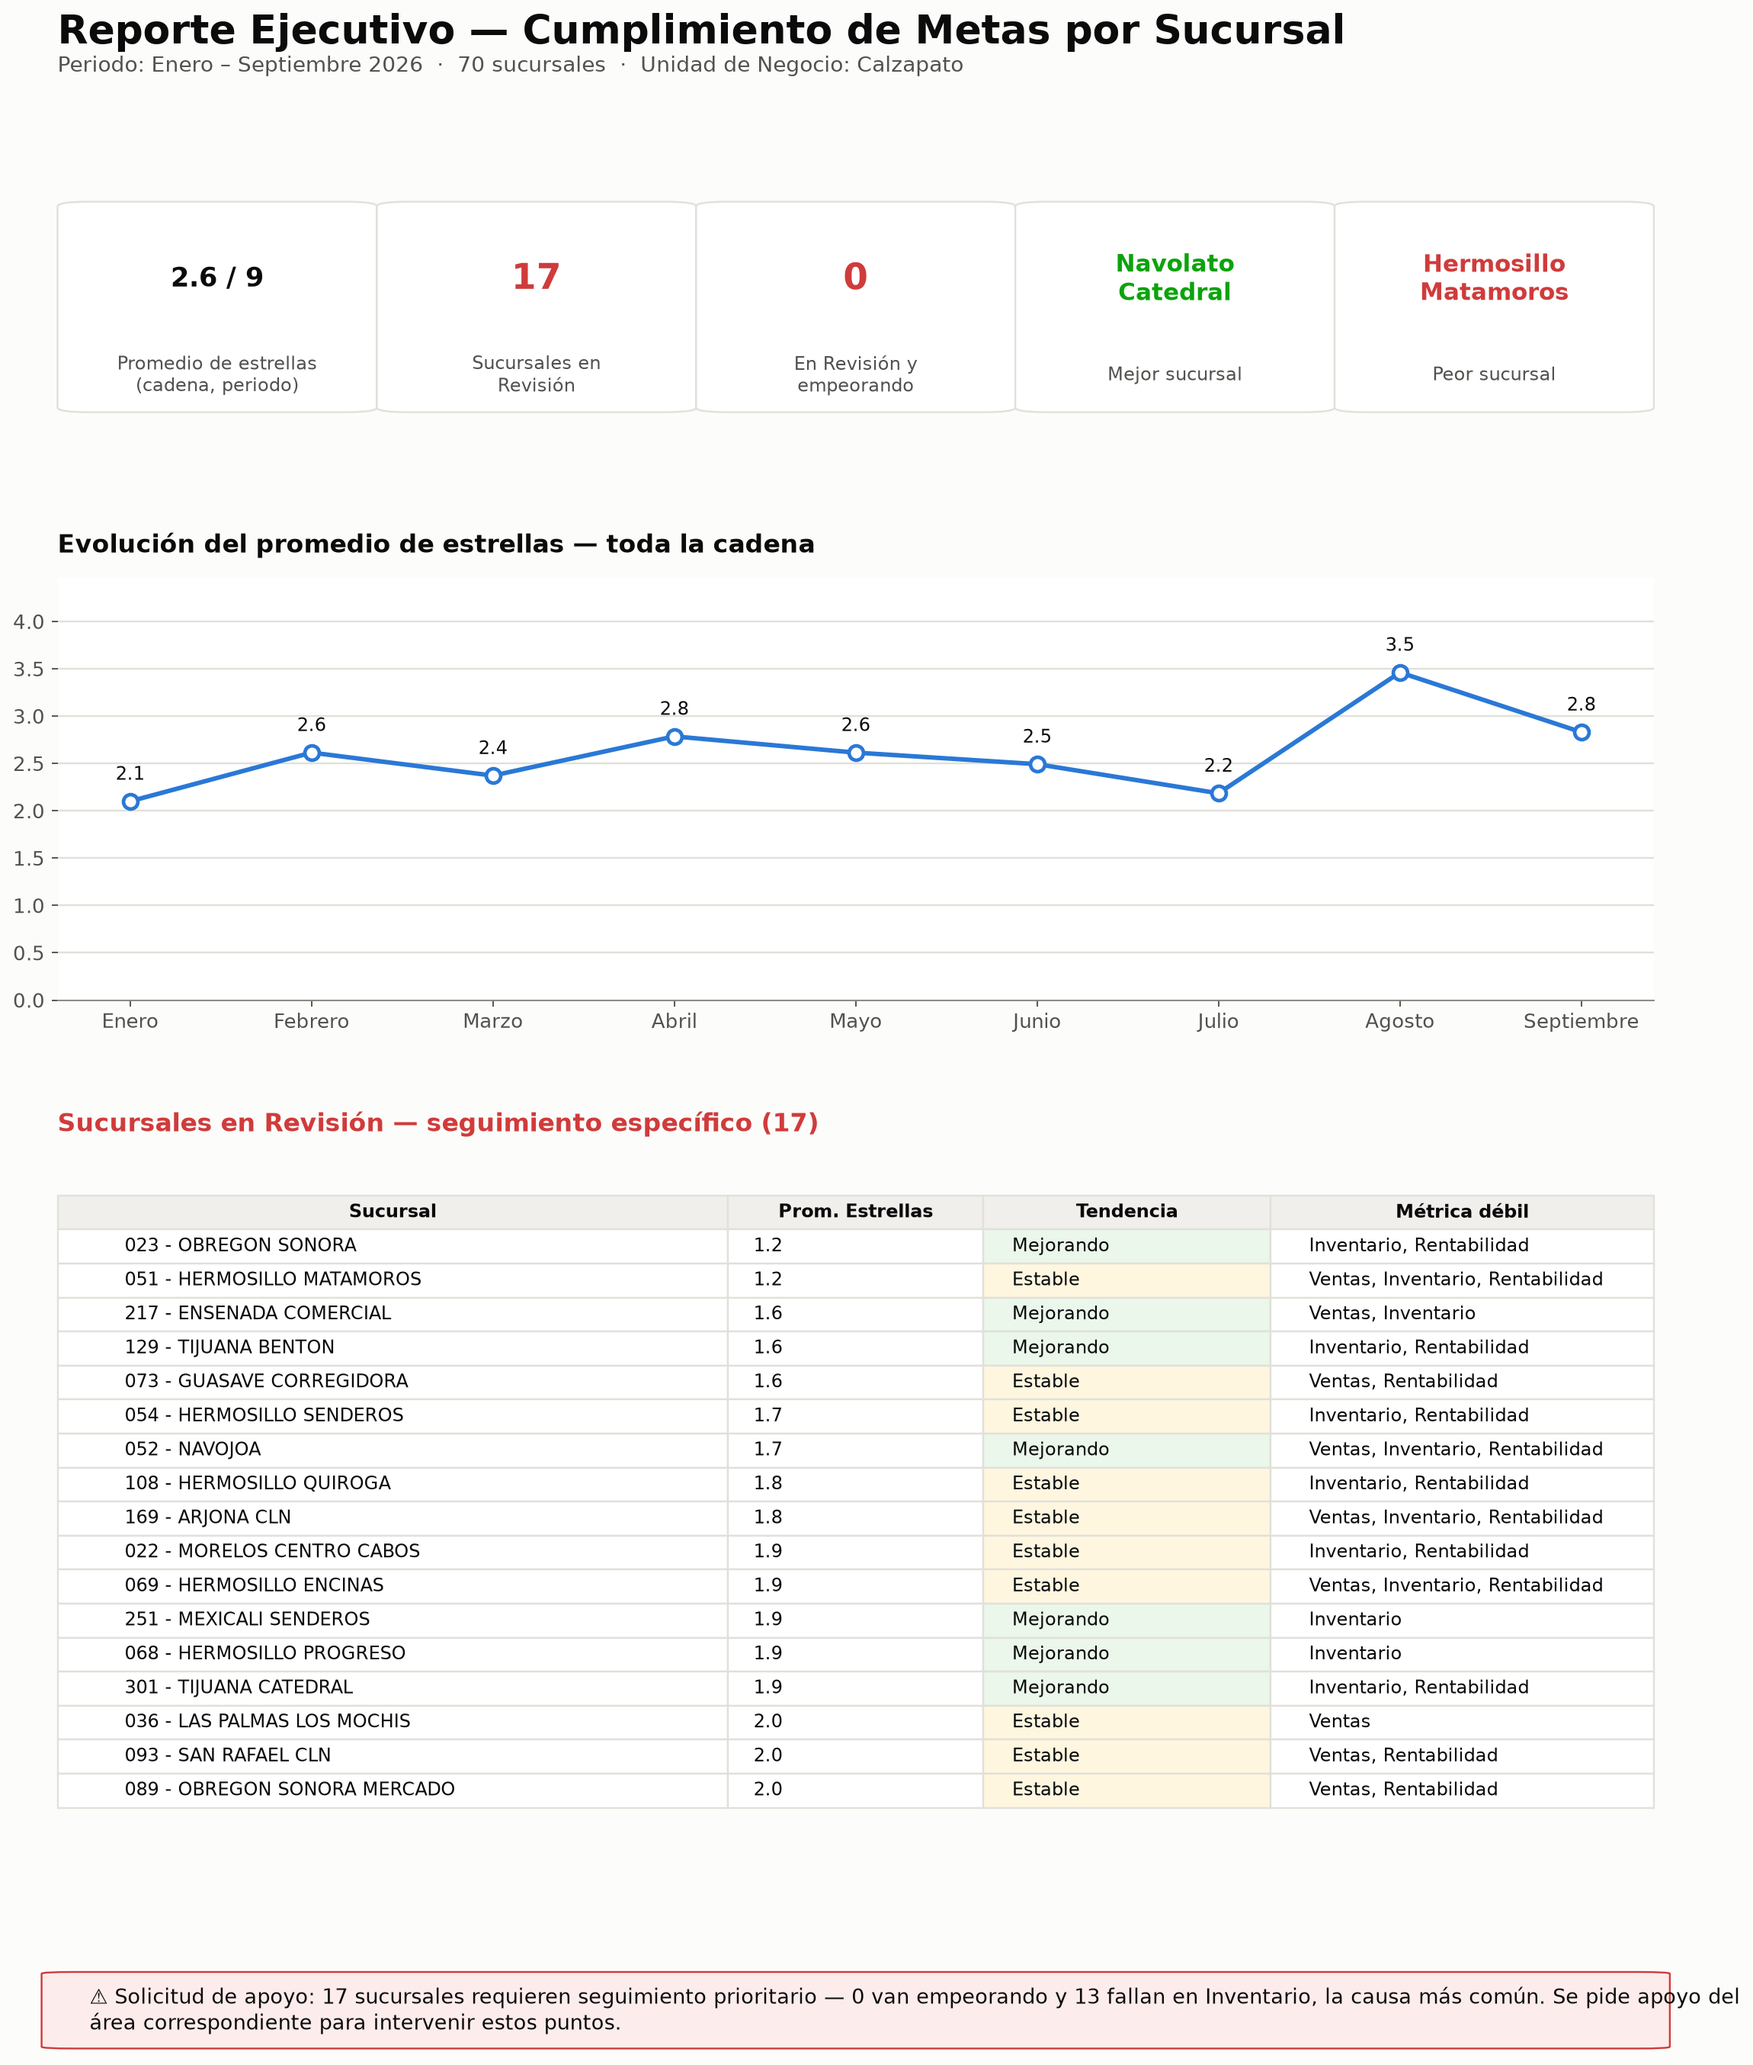
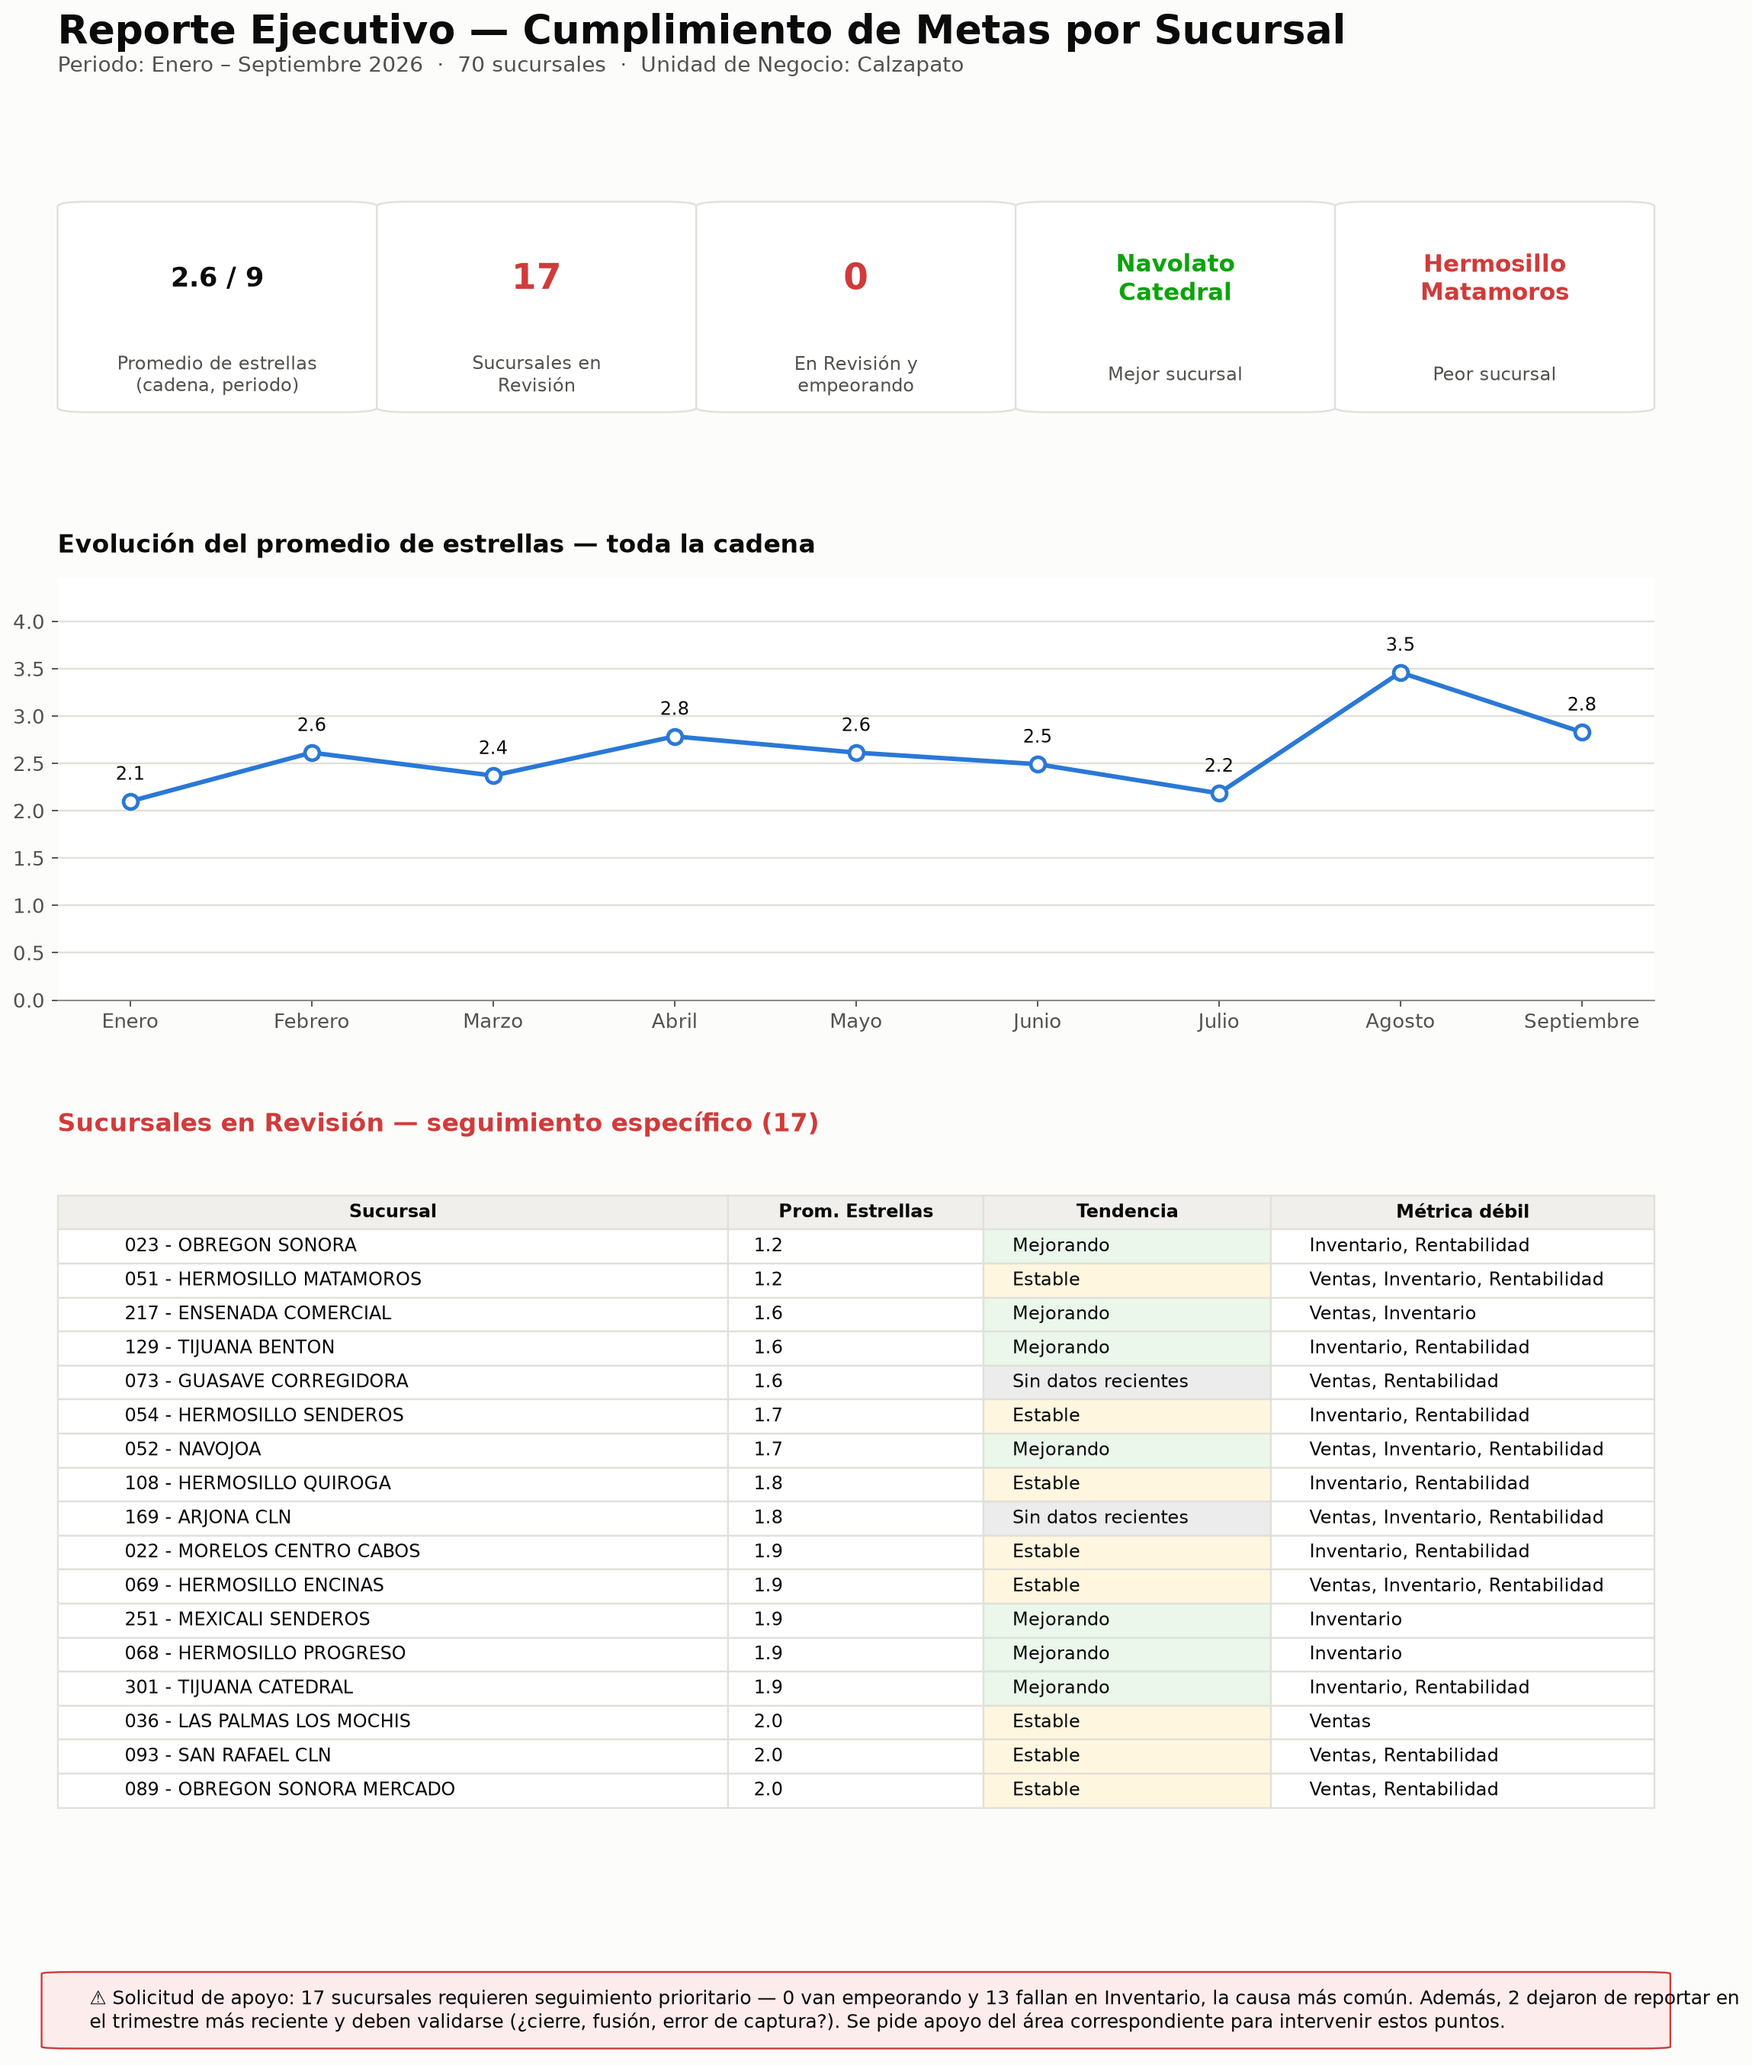
Corregir bug de tendencia para sucursales sin datos en el trimestre reciente
Las sucursales que dejaron de reportar (o son nuevas) se etiquetaban
por error como "Estable" al comparar trimestres, porque la diferencia
daba NaN y el chequeo de umbral la dejaba caer en el caso por defecto.
Ahora se distinguen explicitamente como "Sin datos recientes" o
"Sucursal nueva", evitando subestimar el numero real de sucursales
con problemas de seguimiento. Se actualizan dashboard, reporte
ejecutivo y Excel para reflejar las nuevas categorias de tendencia.

diff --git a/src/services/reporte_ejecutivo.py b/src/services/reporte_ejecutivo.py
@@ -147,7 +147,9 @@ def _seccion_tabla_revision(ax, revision):
         [
             row["Sucursal"],
             f"{row['Promedio_Estrellas']:.1f}",
-            row["Tendencia"].replace("📉 ", "").replace("📈 ", "").replace("➡ ", ""),
+            row["Tendencia"]
+            .replace("📉 ", "").replace("📈 ", "").replace("➡ ", "")
+            .replace("⚠ ", "").replace("🆕 ", ""),
             row["Métrica Débil"],
         ]
         for _, row in revision.iterrows()
@@ -159,7 +161,13 @@ def _seccion_tabla_revision(ax, revision):
     tabla.set_fontsize(10)
     tabla.scale(1, 1.55)
 
-    tendencia_colores = {"Empeorando": "#fdecec", "Estable": "#fff6e0", "Mejorando": "#eaf7ea"}
+    tendencia_colores = {
+        "Empeorando": "#fdecec",
+        "Estable": "#fff6e0",
+        "Mejorando": "#eaf7ea",
+        "Sin datos recientes": "#ececec",
+        "Sucursal nueva": "#e8f0fd",
+    }
     for (r, c), cell in tabla.get_celld().items():
         cell.set_edgecolor(COLOR_GRID)
         if r == 0:
@@ -176,7 +184,16 @@ def _seccion_tabla_revision(ax, revision):
 def _seccion_conclusion(ax, revision):
     ax.axis("off")
     empeorando = (revision["Tendencia"] == "📉 Empeorando").sum()
+    sin_datos = (revision["Tendencia"] == "⚠ Sin datos recientes").sum()
     inventario = revision["Métrica Débil"].str.contains("Inventario").sum()
+
+    texto = (
+        f"⚠ Solicitud de apoyo: {len(revision)} sucursales requieren seguimiento prioritario — "
+        f"{empeorando} van empeorando y {inventario} fallan en Inventario, la causa más común. "
+    )
+    if sin_datos:
+        texto += f"Además, {sin_datos} dejaron de reportar en el trimestre más reciente y deben validarse (¿cierre, fusión, error de captura?). "
+    texto += "Se pide apoyo del área correspondiente para intervenir estos puntos."
 
     box = FancyBboxPatch(
         (0, 0.05), 1, 0.85,
@@ -186,11 +203,8 @@ def _seccion_conclusion(ax, revision):
     )
     ax.add_patch(box)
     ax.text(
-        0.02, 0.47,
-        f"⚠ Solicitud de apoyo: {len(revision)} sucursales requieren seguimiento prioritario — "
-        f"{empeorando} van empeorando y {inventario} fallan en Inventario, la causa más común. "
-        "Se pide apoyo del área correspondiente para intervenir estos puntos.",
-        transform=ax.transAxes, ha="left", va="center", fontsize=11.5,
+        0.02, 0.47, texto,
+        transform=ax.transAxes, ha="left", va="center", fontsize=10.5,
         color=COLOR_TEXT_PRIMARY, wrap=True,
     )
 

diff --git a/src/services/data_loader.py b/src/services/data_loader.py
@@ -110,15 +110,27 @@ def _tendencia_por_sucursal(df: pd.DataFrame) -> pd.DataFrame:
     prom_fin = df[df["Mes"].isin(trimestre_reciente)].groupby("Sucursal")["Estrellas Alcanzadas"].mean()
     diferencia = (prom_fin - prom_inicio).rename("Diferencia Trimestral")
 
-    def etiqueta(d: float) -> str:
+    todas_sucursales = df["Sucursal"].unique()
+    prom_inicio = prom_inicio.reindex(todas_sucursales)
+    prom_fin = prom_fin.reindex(todas_sucursales)
+    diferencia = diferencia.reindex(todas_sucursales)
+
+    def etiqueta(sucursal: str) -> str:
+        # Sin datos en el trimestre reciente: dejó de reportar (posible cierre),
+        # no es lo mismo que "Estable" — nunca se debe mezclar con ese caso.
+        if pd.isna(prom_fin[sucursal]):
+            return "⚠ Sin datos recientes"
+        if pd.isna(prom_inicio[sucursal]):
+            return "🆕 Sucursal nueva"
+        d = diferencia[sucursal]
         if d >= 0.5:
             return "📈 Mejorando"
         if d <= -0.5:
             return "📉 Empeorando"
         return "➡ Estable"
 
-    tendencia = diferencia.apply(etiqueta).rename("Tendencia")
-    return pd.concat([diferencia, tendencia], axis=1).reset_index()
+    tendencia = pd.Series(todas_sucursales, index=todas_sucursales).apply(etiqueta).rename("Tendencia")
+    return pd.concat([diferencia, tendencia], axis=1).reset_index(names="Sucursal")
 
 
 def _metrica_debil_por_sucursal(resumen: pd.DataFrame) -> pd.DataFrame:

diff --git a/app.py b/app.py
@@ -71,7 +71,9 @@ st.dataframe(
 st.caption(
     f"Empeorando: {(revision['Tendencia'] == '📉 Empeorando').sum()} · "
     f"Estable: {(revision['Tendencia'] == '➡ Estable').sum()} · "
-    f"Mejorando: {(revision['Tendencia'] == '📈 Mejorando').sum()}"
+    f"Mejorando: {(revision['Tendencia'] == '📈 Mejorando').sum()} · "
+    f"Sin datos recientes: {(revision['Tendencia'] == '⚠ Sin datos recientes').sum()} · "
+    f"Nuevas: {(revision['Tendencia'] == '🆕 Sucursal nueva').sum()}"
 )
 
 st.markdown("**Evolución mensual de las sucursales en Revisión**")
